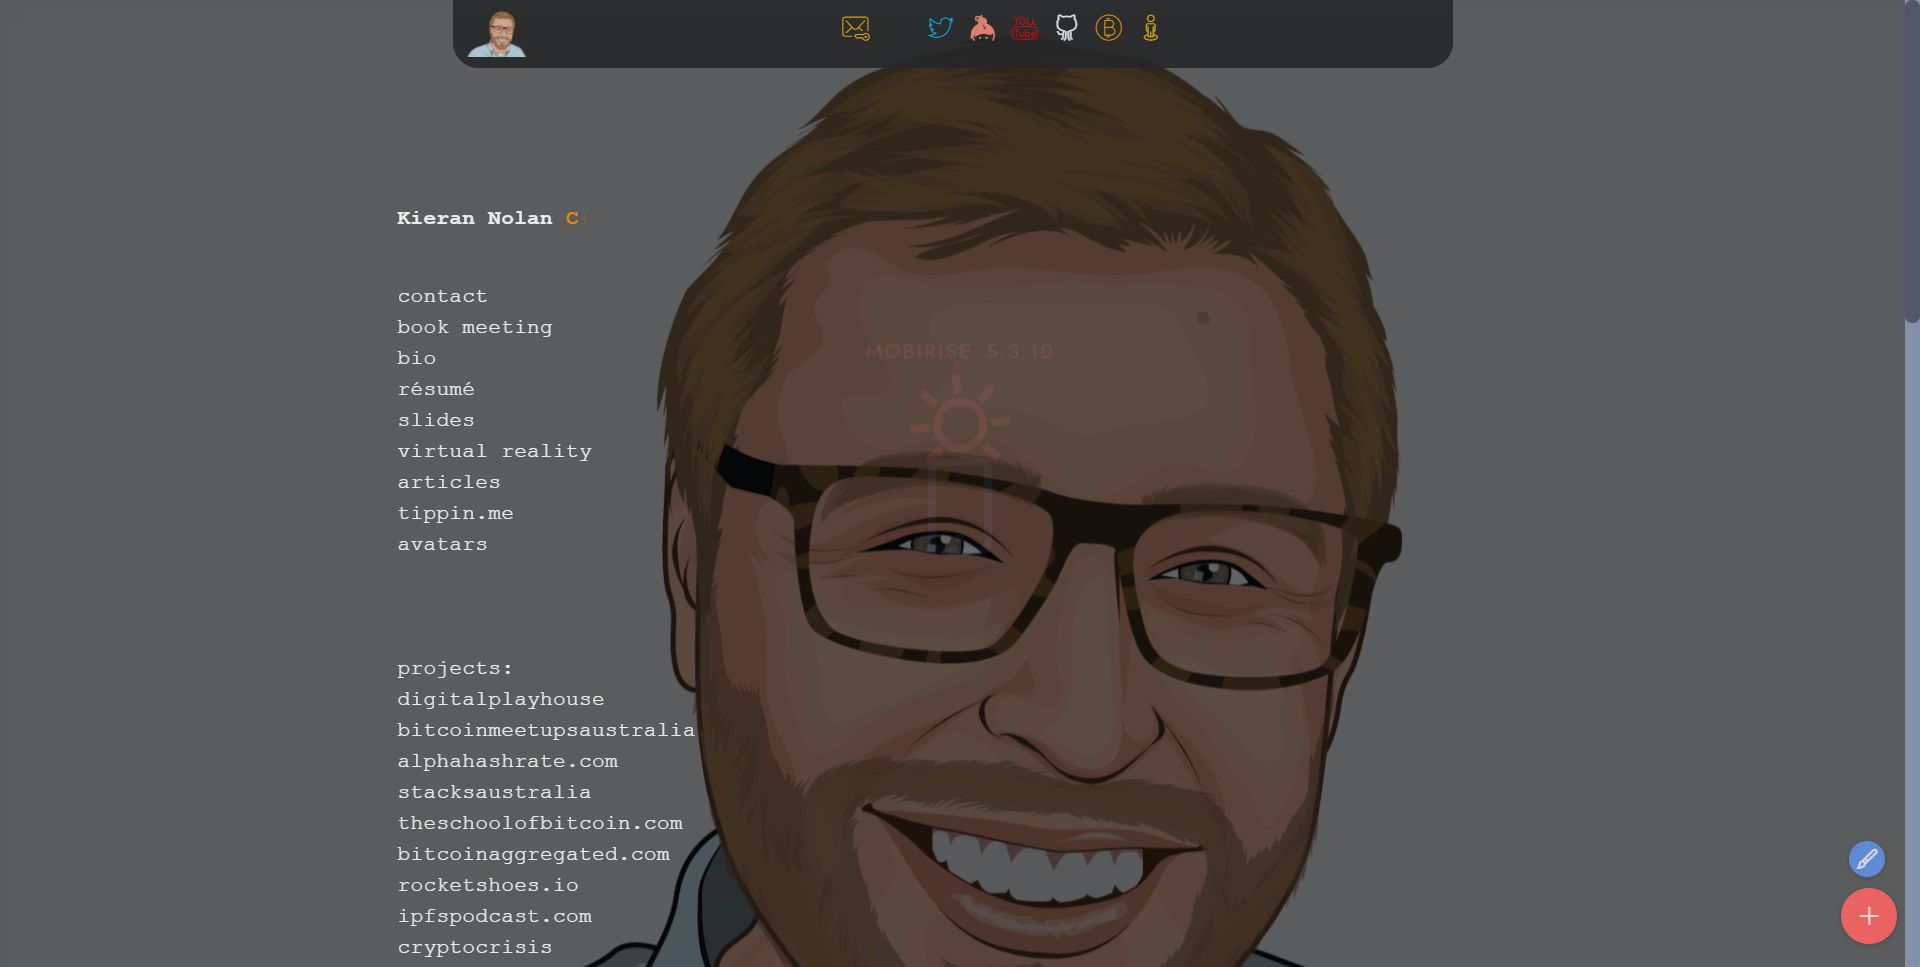
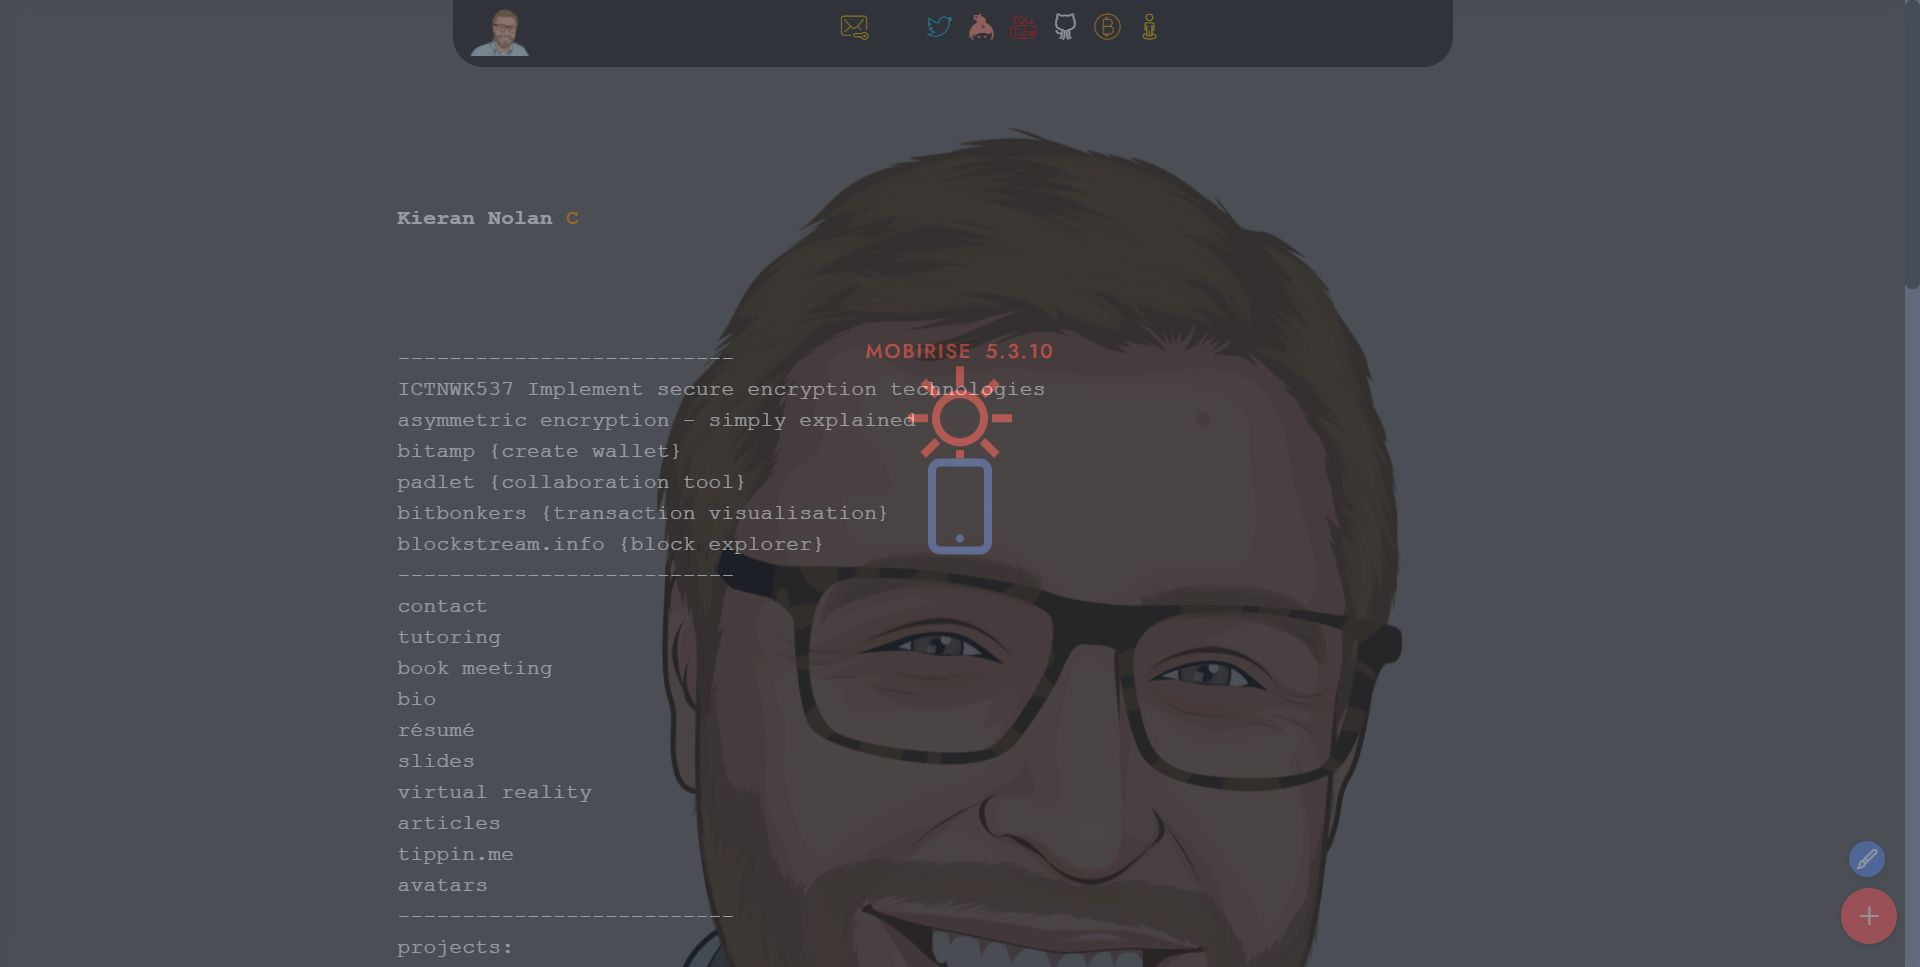
ICTNWK537 Implement secure encryption technologies
ICTNWK537 Implement secure encryption technologies

diff --git a/index.html b/index.html
@@ -60,7 +60,7 @@
             </div>
         </button>
         <div class="collapse navbar-collapse" id="navbarSupportedContent">
-            <ul class="navbar-nav nav-dropdown nav-right" data-app-modern-menu="true"><li class="nav-item"><a class="nav-link link text-info display-4" href="https://vida.page/kierandnolan" aria-expanded="true" target="_blank"><span class="imind-mail-password mbr-iconfont mbr-iconfont-btn" style="color: rgb(255, 188, 0);"></span></a></li></ul>
+            <ul class="navbar-nav nav-dropdown nav-right" data-app-modern-menu="true"><li class="nav-item"><a class="nav-link link text-info text-primary display-4" href="mailto:kdnolan@gmail.com" aria-expanded="false"><span class="imind-mail-password mbr-iconfont mbr-iconfont-btn" style="color: rgb(255, 188, 0);"></span></a></li></ul>
             
 
             <div class="icons-menu">
@@ -106,8 +106,7 @@
                       </span>
                     </span>
                 </div>
-                <p class="mbr-section-text mbr-fonts-style display-5"><a href="https://docs.google.com/document/d/e/2PACX-1vThl-ewFW4OaiN8GeH2qSgxjdPlX7vAmTLaCFP4GKvrwfkR7OjQgEOStjc0O49MUUrxKyTIcyDunUUS/pub" class="text-primary" target="_blank"><br></a><a href="https://vida.page/kierandnolan" class="text-primary" target="_blank"><br></a><strong><a href="https://docs.google.com/presentation/d/1rzvyB0bSSpakIzyUScx4mKZ2n3cZlHPuWLcjioMwRFE/edit?usp=sharing" class="text-primary" target="_blank"><br></a></strong>--------------------------<br><strong><a href="https://docs.google.com/presentation/d/1rzvyB0bSSpakIzyUScx4mKZ2n3cZlHPuWLcjioMwRFE/edit?usp=sharing" class="text-primary" target="_blank">ICTNWK537 Implement secure encryption technologies
-</a><br></strong>a<a href="https://www.youtube.com/watch?v=AQDCe585Lnc" class="text-primary" target="_blank">symmetric encryption - simply explained</a><br><a href="http://wallet.bitamp.com/#/create.html" class="text-primary" target="_blank">bitamp {create wallet}</a><br><a href="https://padlet.com/s202212863/t0wpskx22yf4lsgi" class="text-primary" target="_blank">padlet&nbsp;{collaboration tool}</a><br><a href="https://bitbonkers.netlify.app/" class="text-primary" target="_blank">bitbonkers&nbsp;{transaction visualisation}</a><br><a href="https://blockstream.info/" class="text-primary" target="_blank"></a><a href="https://blockstream.info/" class="text-primary" target="_blank">blockstream.info {block explorer}</a><br>--------------------------<br><a href="mailto:kdnolan@gmail.com" class="text-primary">contact</a><a href="https://vida.page/kierandnolan" class="text-primary" target="_blank"><br></a><a href="https://vida.page/kierandnolan" class="text-primary" target="_blank">tutoring</a><br><a href="https://lncal.com/kdnolan" class="text-primary" target="_blank">book meeting</a><br><a href="https://docs.google.com/document/d/e/2PACX-1vThl-ewFW4OaiN8GeH2qSgxjdPlX7vAmTLaCFP4GKvrwfkR7OjQgEOStjc0O49MUUrxKyTIcyDunUUS/pub" class="text-primary" target="_blank">bio</a><br><a href="https://docs.google.com/document/d/e/2PACX-1vSJ3lUSlqyzEbDo2WYMuaCoPWlIEa_Dltg2NgMmwRnxJEwSH9Kfty-wHGQbAZDOrDtfyUymXv8UziGx/pub" class="text-primary" target="_blank">résumé</a><br><a href="https://docs.google.com/presentation/d/17VgbEdmkydBphCaPF-fNZWcem_wUsqc7-zxOej7hY0I/edit?usp=sharing" class="text-primary" target="_blank">slides</a><br><strong><a href="VR.html" class="text-primary">virtual reality</a></strong><br><strong><a href="https://github.com/kdnolan/kdnolan.github.io/tree/master/articles" class="text-primary" target="_blank">articles</a></strong><br><strong><a href="https://tippin.me/@KieranDNolan" class="text-primary" target="_blank">tippin.me</a></strong><br><a href="https://github.com/kdnolan/kdnolan.github.io/tree/master/avatars" class="text-primary" target="_blank">avatars</a><a href="http://bafybeigejnwczpexdwlcv5ldelmmnzeetzqfltofsgaxxnuvoa5s5axo7q.ipfs.localhost:8080/" class="text-primary" target="_blank"><br></a>--------------------------<br>projects:<br><a href="https://getoffzeropod.com/" class="text-primary" target="_blank">#getoffzero<br></a><a href="https://www.digitalplayhouse.com.au/digital-playhouse-foundation" class="text-primary" target="_blank">digitalplayhouse</a><br><a href="https://btcma.org/" class="text-primary" target="_blank">bitcoinmeetupsaustralia</a><a href="https://www.digitalplayhouse.com.au/digital-playhouse-foundation" class="text-primary" target="_blank"><br></a><a href="https://alphahashrate.com/" class="text-primary" target="_blank">alphahashrate.com</a><br><a href="https://stacksaustralia.github.io/" class="text-primary" target="_blank">stacksaustralia<br></a><a href="https://theschoolofbitcoin.com/" class="text-primary" target="_blank">theschoolofbitcoin.com</a><br><a href="https://bitcoinaggregated.com/" class="text-primary" target="_blank">bitcoinaggregated.com
+                <p class="mbr-section-text mbr-fonts-style display-5"><a href="https://docs.google.com/document/d/e/2PACX-1vThl-ewFW4OaiN8GeH2qSgxjdPlX7vAmTLaCFP4GKvrwfkR7OjQgEOStjc0O49MUUrxKyTIcyDunUUS/pub" class="text-primary" target="_blank"><br></a><a href="https://vida.page/kierandnolan" class="text-primary" target="_blank"><br></a><strong><a href="https://docs.google.com/presentation/d/1rzvyB0bSSpakIzyUScx4mKZ2n3cZlHPuWLcjioMwRFE/edit?usp=sharing" class="text-primary" target="_blank"><br></a></strong>--------------------------<br>ICTNWK537 Implement secure encryption technologies:<br><a href="http://wallet.bitamp.com/#/create.html" class="text-primary" target="_blank">bitamp {create wallet}</a><br><a href="https://padlet.com/s202212863/t0wpskx22yf4lsgi" class="text-primary" target="_blank">padlet&nbsp;{collaboration tool}</a><br><a href="https://bitbonkers.netlify.app/" class="text-primary" target="_blank">bitbonkers&nbsp;{transaction visualisation}</a><br><a href="https://forms.gle/mkhtz3BQUyFm4b7X9" class="text-primary" target="_blank">feedback form<br></a>--------------------------<br><a href="mailto:kdnolan@gmail.com" class="text-primary">contact</a><a href="https://vida.page/kierandnolan" class="text-primary" target="_blank"><br></a><a href="https://vida.page/kierandnolan" class="text-primary" target="_blank">tutoring</a><br><a href="https://lncal.com/kdnolan" class="text-primary" target="_blank">book meeting</a><br><a href="https://docs.google.com/document/d/e/2PACX-1vThl-ewFW4OaiN8GeH2qSgxjdPlX7vAmTLaCFP4GKvrwfkR7OjQgEOStjc0O49MUUrxKyTIcyDunUUS/pub" class="text-primary" target="_blank">bio</a><br><a href="https://docs.google.com/document/d/e/2PACX-1vSJ3lUSlqyzEbDo2WYMuaCoPWlIEa_Dltg2NgMmwRnxJEwSH9Kfty-wHGQbAZDOrDtfyUymXv8UziGx/pub" class="text-primary" target="_blank">résumé</a><br><a href="https://docs.google.com/presentation/d/17VgbEdmkydBphCaPF-fNZWcem_wUsqc7-zxOej7hY0I/edit?usp=sharing" class="text-primary" target="_blank">slides</a><br><strong><a href="VR.html" class="text-primary">virtual reality</a></strong><br><strong><a href="https://github.com/kdnolan/kdnolan.github.io/tree/master/articles" class="text-primary" target="_blank">articles</a></strong><br><strong><a href="https://tippin.me/@KieranDNolan" class="text-primary" target="_blank">tippin.me</a></strong><br><a href="https://github.com/kdnolan/kdnolan.github.io/tree/master/avatars" class="text-primary" target="_blank">avatars</a><a href="http://bafybeigejnwczpexdwlcv5ldelmmnzeetzqfltofsgaxxnuvoa5s5axo7q.ipfs.localhost:8080/" class="text-primary" target="_blank"><br></a>--------------------------<br>projects:<br><a href="https://getoffzeropod.com/" class="text-primary" target="_blank">getoffzero<br></a><a href="https://www.digitalplayhouse.com.au/digital-playhouse-foundation" class="text-primary" target="_blank">digitalplayhouse</a><br><a href="https://btcma.org/" class="text-primary" target="_blank">bitcoinmeetupsaustralia</a><a href="https://www.digitalplayhouse.com.au/digital-playhouse-foundation" class="text-primary" target="_blank"><br></a><a href="https://alphahashrate.com/" class="text-primary" target="_blank">alphahashrate.com</a><br><a href="https://stacksaustralia.github.io/" class="text-primary" target="_blank">stacksaustralia<br></a><a href="https://theschoolofbitcoin.com/" class="text-primary" target="_blank">theschoolofbitcoin.com</a><br><a href="https://bitcoinaggregated.com/" class="text-primary" target="_blank">bitcoinaggregated.com
 </a><br><a href="http://rocketshoes.io" class="text-primary" target="_blank">rocketshoes.io</a><br><a href="http://ipfspodcast.com" class="text-primary" target="_blank">ipfspodcast.com</a><br><a href="https://store.steampowered.com/app/1022320/Crypto_Crisis_Education_Edition/" class="text-primary" target="_blank">cryptocrisis</a><br>--------------------------<a href="https://store.steampowered.com/app/1022320/Crypto_Crisis_Education_Edition/" class="text-primary" target="_blank"><br></a><br><br><br><strong><a href="http://rocketshoes.io" class="text-primary" target="_blank"><br></a></strong><br><strong><a href="http://rocketshoes.io" class="text-primary" target="_blank"><br></a></strong><a href="http://kdnolan.hns.to" class="text-primary" target="_blank" style=""><br></a><br></p>
                 
             </div>

diff --git a/VR.html b/VR.html
@@ -56,7 +56,7 @@
             </div>
         </button>
         <div class="collapse navbar-collapse" id="navbarSupportedContent">
-            <ul class="navbar-nav nav-dropdown nav-right" data-app-modern-menu="true"><li class="nav-item"><a class="nav-link link text-info display-4" href="https://vida.page/kierandnolan" aria-expanded="true" target="_blank"><span class="imind-mail-password mbr-iconfont mbr-iconfont-btn" style="color: rgb(255, 188, 0);"></span></a></li></ul>
+            <ul class="navbar-nav nav-dropdown nav-right" data-app-modern-menu="true"><li class="nav-item"><a class="nav-link link text-info text-primary display-4" href="mailto:kdnolan@gmail.com" aria-expanded="false"><span class="imind-mail-password mbr-iconfont mbr-iconfont-btn" style="color: rgb(255, 188, 0);"></span></a></li></ul>
             
 
             <div class="icons-menu">

diff --git a/page2.html b/page2.html
@@ -58,7 +58,7 @@
             </div>
         </button>
         <div class="collapse navbar-collapse" id="navbarSupportedContent">
-            <ul class="navbar-nav nav-dropdown nav-right" data-app-modern-menu="true"><li class="nav-item"><a class="nav-link link text-info display-4" href="https://vida.page/kierandnolan" aria-expanded="true" target="_blank"><span class="imind-mail-password mbr-iconfont mbr-iconfont-btn" style="color: rgb(255, 188, 0);"></span></a></li></ul>
+            <ul class="navbar-nav nav-dropdown nav-right" data-app-modern-menu="true"><li class="nav-item"><a class="nav-link link text-info text-primary display-4" href="mailto:kdnolan@gmail.com" aria-expanded="false"><span class="imind-mail-password mbr-iconfont mbr-iconfont-btn" style="color: rgb(255, 188, 0);"></span></a></li></ul>
             
 
             <div class="icons-menu">
